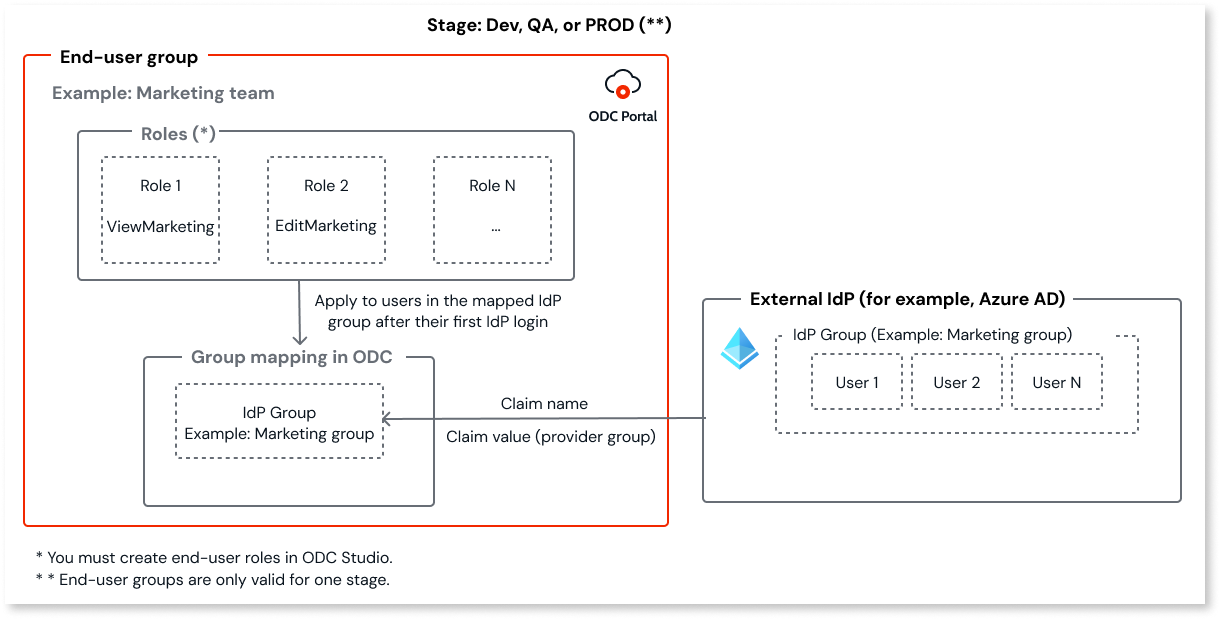
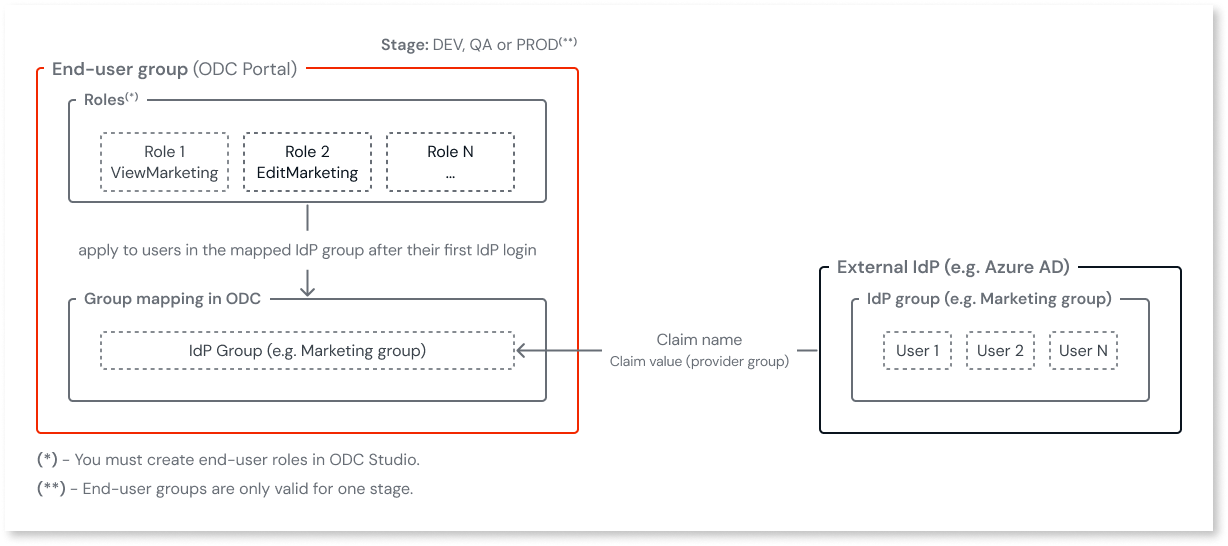
TK-16685 Update diagram, add screenshot, fix link-fragments issue (#1755)

diff --git a/src/eap/manage-platform-app-lifecycle/external-idps/end-user-group-mapping.md b/src/eap/manage-platform-app-lifecycle/external-idps/end-user-group-mapping.md
@@ -44,7 +44,7 @@ Mapped end-users can't be unmapped directly from the ODC Portal. To unmap end-us
 
 </div>
 
-![Diagram illustrating End-user groups with IdP claim-based mapping](images/end-user-group-with-idp-mapping-diag.png "End-user groups with IdP mapping")
+![Diagram showing the mapping of IdP groups to ODC end-user groups, including roles and stages.](images/end-user-group-with-idp-mapping-diag.png "Diagram illustrating End-user groups with IdP mapping")
 
 For more information about the high-level steps you need to complete to manage end-users, refer to [Managing end-users with external Identity Provider (IdP) authentication](../../user-management/end-users/intro.md#managing-end-users-with-external-identity-provider-idp-authentication).
 
@@ -71,7 +71,7 @@ Before mapping groups, ensure you have:
 
 </div>
 
-## Group claims { #group-claims }
+## Group claims {#group-claims}
 
 A claim is a statement that an entity makes about itself. An entity can be a user or an app.
 
@@ -112,7 +112,7 @@ You can manage mappings in the ODC Portal from either:
 * The [**End-user groups** page](#mapping-end-user-groups-option)
 * The [**Identity providers** page](#mapping-idp-option)
 
-## Managing end-user group mapping from the end-user groups page { #mapping-end-user-groups-option }
+## Managing end-user group mapping from the end-user groups page {#mapping-end-user-groups-option}
 
 From the **End-user groups** page, you can:
 
@@ -120,7 +120,7 @@ From the **End-user groups** page, you can:
 * [Edit an end-user group mapping](#edit-mapping-end-user-groups-option)
 * [Delete an end-user group mapping](#delete-mapping-end-user-groups-option)
 
-### Create an end-user group mapping { #create-mapping-end-user-groups-option }
+### Create an end-user group mapping {#create-mapping-end-user-groups-option}
 
 To map an IdP group to an end-user group from the **End-user groups** page, follow these steps:
 
@@ -129,7 +129,9 @@ To map an IdP group to an end-user group from the **End-user groups** page, foll
 1. Go to the **Group mappings** tab.
 1. Click **Add group mapping**.
 1. Select a provider from the **Provider** dropdown list.
-1. Enter the **Claim name**, **Claim value (provider group)**, and optionally the **Delimiter**.  
+1. Enter the **Claim name**, **Claim value (provider group)**, and optionally the **Delimiter**.
+  
+    ![Screenshot of the Add group mapping dialog in the ODC Portal, showing fields for Provider, Claim name, Claim value, and Delimiter.](images/add-group-mapping-pl.png "Add group mapping in ODC Portal")
 For more details about group claims and their maximum length values, refer to [Group claims](#group-claims).
 1. Click **Save**.
 
@@ -141,7 +143,7 @@ You can view mappings by status (**Active**/**Inactive**). An **Inactive** statu
 
 </div>
 
-### Edit an end-user group mapping { #edit-mapping-end-user-groups-option }
+### Edit an end-user group mapping {#edit-mapping-end-user-groups-option}
 
 To edit an end-user group mapping from the **End-user groups** page, follow these steps:
 
@@ -161,7 +163,7 @@ You can view mappings by status (**Active**/**Inactive**). An **Inactive** statu
 
 </div>
 
-### Delete an end-user group mapping { #delete-mapping-end-user-groups-option }
+### Delete an end-user group mapping {#delete-mapping-end-user-groups-option}
 
 Deleting a mapping removes the group claim and breaks the link between the IdP and ODC group. End-users relying only on that mapping lose access.
 
@@ -175,7 +177,7 @@ To delete an end-user group mapping from the **End-user groups** page, follow th
 
 The mapping is deleted. Deleting an end-user group also removes all mappings and revokes group-based access.
 
-## Managing end-user group mapping from the Identity providers page { #mapping-idp-option }
+## Managing end-user group mapping from the Identity providers page {#mapping-idp-option}
 
 From the **Identity providers** page, you can:
 
@@ -183,7 +185,7 @@ From the **Identity providers** page, you can:
 * [Edit an end-user group mapping](#edit-mapping-idp-option)
 * [Delete an end-user group mapping](#delete-mapping-idp-option)
 
-### Create an end-user group mapping { #create-mapping-idp-option }
+### Create an end-user group mapping {#create-mapping-idp-option}
 
 To map an IdP group to an end-user group from the **Identity providers** page, follow these steps:
 
@@ -205,7 +207,7 @@ You can view mappings by status (**Active**/**Inactive**). An **Inactive** statu
 
 </div>
 
-### Edit an end-user group mapping { #edit-mapping-idp-option }
+### Edit an end-user group mapping {#edit-mapping-idp-option}
 
 To edit an end-user group mapping from the **Identity providers** page, follow these steps:
 
@@ -228,7 +230,7 @@ You can view mappings by status (**Active**/**Inactive**). An **Inactive** statu
 
 </div>
 
-### Delete an end-user group mapping { #delete-mapping-idp-option }
+### Delete an end-user group mapping {#delete-mapping-idp-option}
 
 Deleting a mapping removes the group claim and breaks the link between the IdP and ODC group. End-users relying only on that mapping lose access.
 
